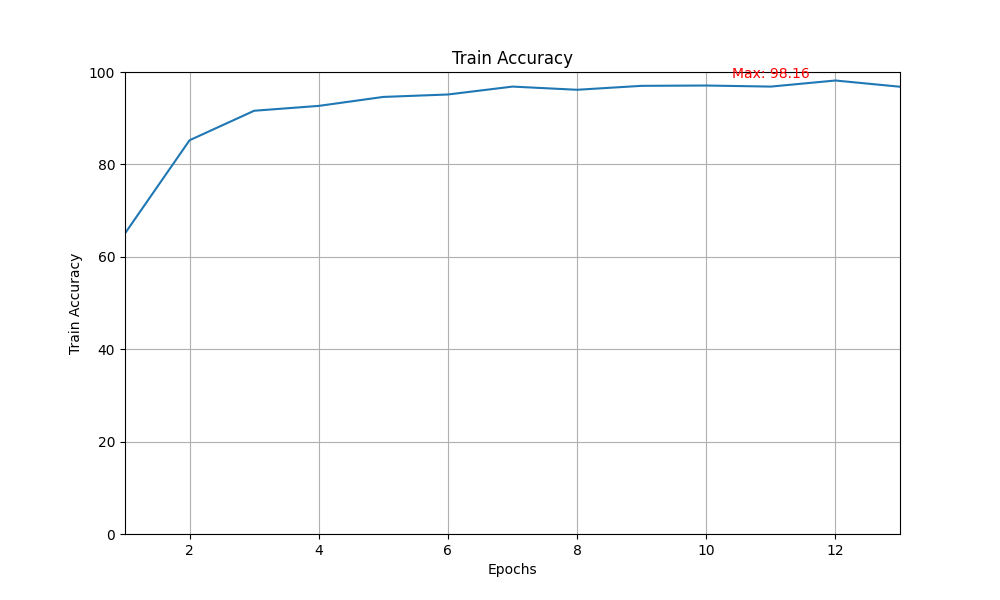
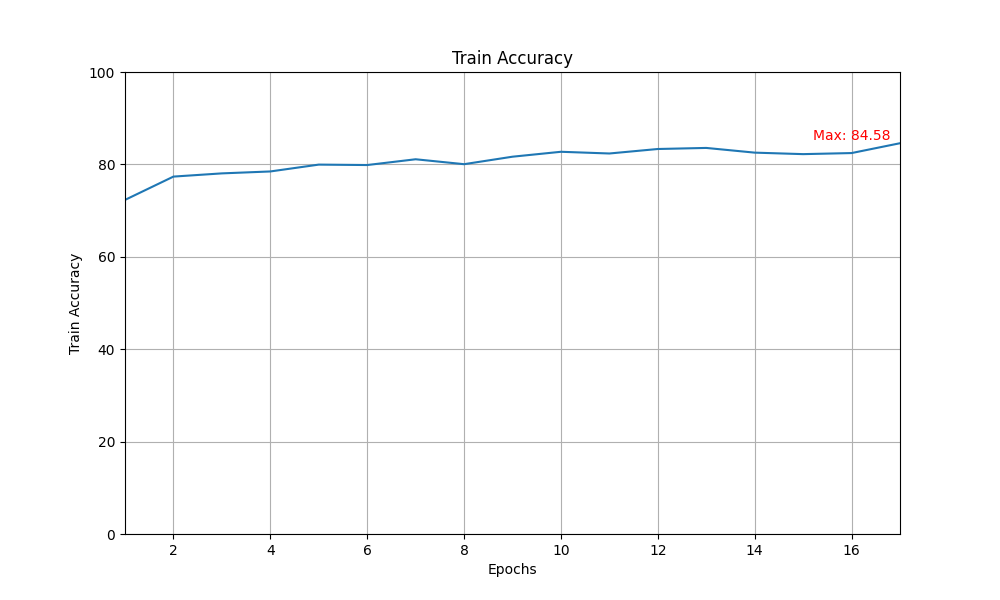
as

diff --git a/train_model.py b/train_model.py
@@ -13,8 +13,8 @@ synthesis_soldier_path = "../sampling_exp"   # 적록색맹 적용
 # synthesis_soldier_path = "./sampling_camouflage_soldier"   # 적록색맹 적용 x(test1)
 
 # train_root_path = "./train_dataset_wo_rg(exp)" # 최종 데이터 셋 저장 경로, 적록색맹 데이터 미포함(test1)
-train_root_path = "../train_dataset_wo_real(exp)" # 최종 데이터 셋 저장 경로, 실제 데이터 미포함(test2)
-# train_root_path = "../train_dataset_wo_syn(exp)" # 최종 데이터 셋 저장 경로, 생성 데이터 미포함
+# train_root_path = "../train_dataset_wo_real(exp)" # 최종 데이터 셋 저장 경로, 실제 데이터 미포함(test2)
+train_root_path = "../train_dataset_wo_syn(exp)" # 최종 데이터 셋 저장 경로, 생성 데이터 미포함
 # train_root_path = "../train_dataset_refine-tuning" # 최종 데이터 셋 저장 경로, 재 생성(dreambooth)
 
 non_soldier_target_path = os.path.join(train_root_path, 'non_soldier')  # 최종 데이터 셋 저장 경로

diff --git a/early_stopping.py b/early_stopping.py
@@ -50,5 +50,5 @@ class EarlyStopping:
         if self.verbose:
             self.trace_func(f'Validation loss decreased ({self.val_loss_min:.6f} --> {val_loss:.6f}).  Saving model ...')
         os.makedirs(self.path, exist_ok=True)
-        torch.save(models.state_dict(), f'{self.path}/convnext_tiny_models.pt')
+        torch.save(models.state_dict(), f'{self.path}/resnet50_models.pt')
         self.val_loss_min = val_loss

diff --git a/pretrained_model.py b/pretrained_model.py
@@ -121,7 +121,7 @@ def generate_model():
     densenet121 = models.densenet121(weights=None)
     convnext_tiny = models.convnext_tiny(weights=None)
 
-    ensemble_model_list = convnext_tiny
+    ensemble_model_list = resnet50
     ensemble_model = get_pretrained_model(ensemble_model_list)
 
     return ensemble_model
